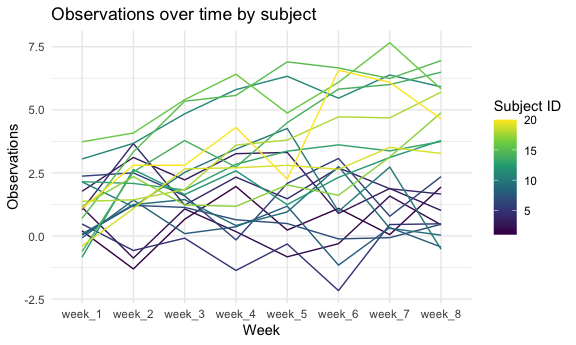
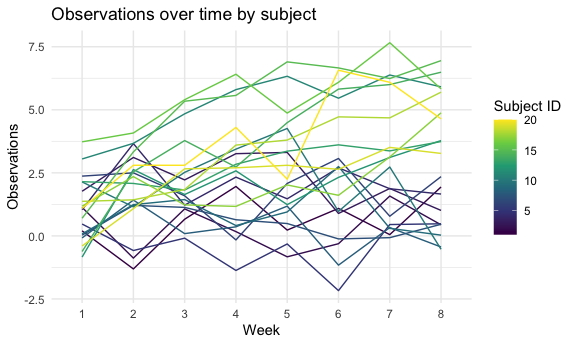
set seed for reproducibility, removed week prefix in problem 2, created function for problem 3

Changed region(s): [[0.1875, 0.8986, 0.8125, 0.9275], [0.0938, 0.8986, 0.1562, 0.9275]]

diff --git a/p8105_hw5_dmh2228.md b/p8105_hw5_dmh2228.md
@@ -3,7 +3,7 @@ P8105 Homework 5
 Diana Hernandez
 2023-11-15
 
-Load libraries.
+Load libraries and settings.
 
 ``` r
 library(tidyverse)
@@ -32,6 +32,8 @@ library(rvest)
     ##     guess_encoding
 
 ``` r
+set.seed(1)
+
 knitr::opts_chunk$set(
   fig.width = 6,
   fig.asp = .6,
@@ -256,6 +258,7 @@ tidy_con_exp_data =
   pivot_longer(
     week_1:week_8,
     names_to = "week",
+    names_prefix = "week_",
     values_to = "observations"
   )
 ```
@@ -282,3 +285,20 @@ con_exp_plot
 Since subjects in the experimental group are 11-20, you can see that
 their observations over time are higher than those subjects in the
 control group (1-10).
+
+# Problem 3
+
+Set Mu = 0.
+
+``` r
+one_samp_ttest = function(n = 30, sigma = 5) {
+  
+one_samp_data = 
+  tibble(
+      rnorm(n = 30, mean = 0, sd = 1),
+    ) 
+  
+t.test(one_samp_data, mu = 0, alternative = "two.sided")
+  
+}
+```
